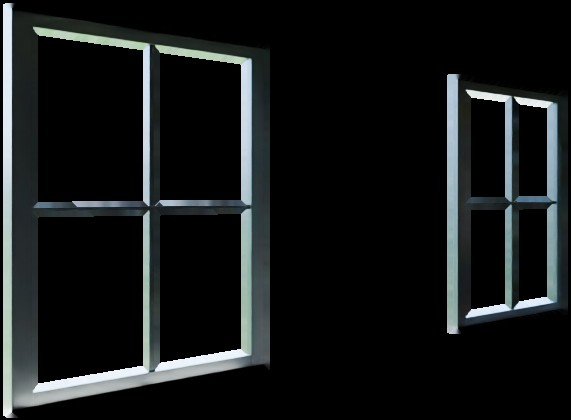
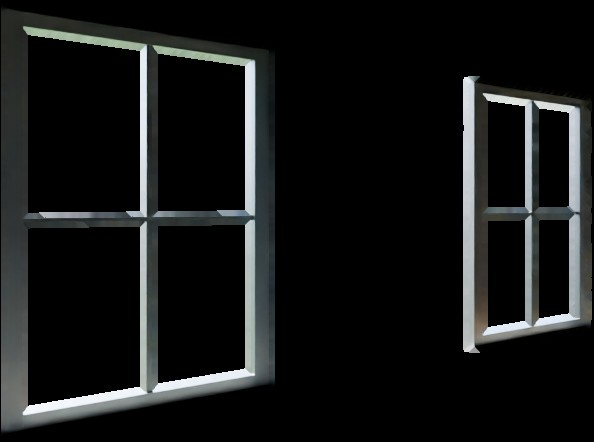
The Lookout 3500 2.0: bed4
The Lookout 3500 2.0 page: a picture redone.

- Bedroom 4 re-rendered: afternoon sun, cased windows with curtains, panelled doors with casings in three styles; crown molding as a choice, flooring, carpet, wall paint, door colour, hardware and window frames as before.

Claude-Session: https://claude.ai/code/session_01LcUu1yMTHs7qUW5E51HSvp

Changed region(s): [[0.0, 0.0, 0.4764, 1.0], [0.7741, 0.1548, 1.0, 0.8048]]

diff --git a/lookout/site.js b/lookout/site.js
@@ -1,1 +1,1 @@
-window.SJ={"name":"The Lookout 3500 2.0","slug":"the-lookout-3500-2","tag":"One-and-a-half-story plan","sub":"Four bedrooms and three and a half baths in 3,760 square feet, with the primary suite on the main level, a lookout room on the roof and a three-car garage.","stats":[["3,760","sq ft finished"],["4","bedrooms"],["3.5","baths"],["3","car garage"],["Main-level","primary suite"],["14 x 16","lookout room"]],"hero":{"day":"img/hero-day.jpg","night":""},"views":[{"id":"hero","name":"Front","kind":"ext","keys":["fas","fd","fdc","g","gdc","lk","prf","pst","rof","sid","trm","win"]},{"id":"yard","name":"Back yard","kind":"ext","keys":["fas","g","lk","pl","prf","pst","rof","sid","trm","win"]},{"id":"great","name":"Living room","kind":"int","keys":["bi","clg","cr","flr","fp","hwc","idc","ids","wal","win"]},{"id":"kitchen","name":"Kitchen","kind":"int","keys":["bsp","cab","cr","ctr","flr","hwc","isl","wal","win"]},{"id":"dining","name":"Dining room","kind":"int","keys":["cr","flr","wal","win"]},{"id":"foyer","name":"Foyer","kind":"int","keys":["cr","fd","fdc","flr","hwc","sf","sr","wal","win"]},{"id":"primary","name":"Primary bedroom","kind":"int","keys":["cr","flr","wal","win"]},{"id":"bath","name":"Primary bath","kind":"int","keys":["btl","cr","ctr","hwc","shw","vcab","wal","win"]},{"id":"office","name":"Loft over the primary closet","kind":"int","keys":["cr","flr","hwc","lof","sf","sr","wal","win"]},{"id":"loft","name":"Upstairs loft","kind":"int","keys":["cr","wal","win"]},{"id":"lookout","name":"Lookout room","kind":"int","keys":["sf","sr","wal","win"],"veil":{"when":{"lk":"0"},"keys":["sf","sr","wal","win"],"note":"Shows in this picture when the lookout room is chosen"}},{"id":"bed2","name":"Bedroom 2","kind":"int","keys":["cpt","cr","uf","wal","win"]},{"id":"bed4","name":"Bedroom 4","kind":"int","keys":["cpt","hwc","idc","uf","wal","win"]},{"id":"lounge","name":"Lower level lounge","kind":"int","keys":["b","cab","ctr","hwc","isl","wal"],"veil":{"when":{"b":"u"},"keys":["cab","ctr","hwc","isl","wal"],"note":"Shows in this picture once the lower level is finished"}},{"id":"bar","name":"Lower level bar","kind":"int","keys":["b","ctr","hwc","isl","wal"],"veil":{"when":{"b":"u"},"keys":["ctr","hwc","isl","wal"],"note":"Shows in this picture once the lower level is finished"}}],"baths":[],"bathkeys":[],"opts":[{"key":"lk","name":"Lookout room","cat":"ext","ch":[{"id":"1","name":"Lookout room on the roof (as drawn)"},{"id":"0","name":"No lookout"}],"note":"The lookout room sits on the roof, 14 x 16 ft with windows all around, reached by its own stair."},{"key":"g","name":"Garage entry","cat":"ext","ch":[{"id":"f","name":"Front entry (as drawn)"},{"id":"s","name":"Side entry, with a motor court"}],"note":"Side entry: the garage wing is re-proportioned and its doors face a motor court at the side; windows take their place on the front."},{"key":"pl","name":"Pool","cat":"ext","ch":[{"id":"n","name":"No pool (as drawn)"},{"id":"1","name":"Lap pool, 10 x 45 ft"},{"id":"2","name":"Plunge pool with a raised spa"},{"id":"3","name":"Courtyard pool with a shade pavilion"}],"note":"The pools sit behind the covered deck, on a paved terrace one step above the lawn."},{"key":"sid","name":"Siding colour","cat":"ext","ch":[{"id":"white","name":"Chantilly White","css":"#F1EFE8"},{"id":"cream","name":"Warm Cream","css":"#E6DCC6"},{"id":"greige","name":"Pebble Greige","css":"#B9B2A3"},{"id":"sage","name":"Sage","css":"#8E9A86"},{"id":"blue","name":"Harbor Blue","css":"#5E768A"},{"id":"navy","name":"Midnight Navy","css":"#28364A"},{"id":"iron","name":"Iron Gray","css":"#45484A"},{"id":"black","name":"Tricorn Black","css":"#222325"}]},{"key":"trm","name":"Trim and corner boards","cat":"ext","ch":[{"id":"white","name":"White","css":"#F4F2EC"},{"id":"cream","name":"Cream","css":"#E9E1CF"},{"id":"black","name":"Black","css":"#1E1F21"},{"id":"bronze","name":"Dark Bronze","css":"#3A322B"}]},{"key":"rof","name":"Roof shingles","cat":"ext","ch":[{"id":"char","name":"Charcoal","css":"linear-gradient(180deg,#33353A 0 50%,#45474C 50%)"},{"id":"onyx","name":"Onyx Black","css":"linear-gradient(180deg,#1D1E21 0 50%,#2A2B2F 50%)"},{"id":"wood","name":"Weathered Wood","css":"linear-gradient(180deg,#5E554B 0 50%,#7A6F62 50%)"},{"id":"slate","name":"Slate Gray","css":"linear-gradient(180deg,#4D5560 0 50%,#69717C 50%)"},{"id":"brown","name":"Barkwood","css":"linear-gradient(180deg,#41342B 0 50%,#5B4A3D 50%)"}]},{"key":"prf","name":"Porch, lookout and accent roofs","cat":"ext","ch":[{"id":"metal","name":"Black standing seam","css":"repeating-linear-gradient(90deg,#1b1c1f 0 7px,#34363a 7px 9px)"},{"id":"copper","name":"Copper standing seam","css":"repeating-linear-gradient(90deg,#9A5A34 0 7px,#c07c4c 7px 9px)"},{"id":"match","name":"Shingles to match","css":"repeating-linear-gradient(0deg,#2a2b2f 0 5px,#1d1e21 5px 10px)"}]},{"key":"fas","name":"Gutters and downspouts","cat":"ext","ch":[{"id":"white","name":"White","css":"#F2F0EA"},{"id":"black","name":"Black","css":"#1B1C1E"},{"id":"bronze","name":"Dark Bronze","css":"#3A322B"}]},{"key":"win","name":"Window frames","cat":"ext","ch":[{"id":"black","name":"Black","css":"#18191B"},{"id":"white","name":"White","css":"#F0EEE8"},{"id":"bronze","name":"Bronze","css":"#3B3129"},{"id":"clay","name":"Clay","css":"#A89F8E"}]},{"key":"fd","name":"Front door","cat":"ext","ch":[{"id":"g","name":"Double doors, glass over a panel"},{"id":"s","name":"Steel-look glass double doors"},{"id":"c","name":"Craftsman door with sidelights"},{"id":"p","name":"Panelled double doors"}],"note":"Every design comes with a transom over the door; its colour is the next choice."},{"key":"fdc","name":"Front door colour","cat":"ext","ch":[{"id":"wood","name":"Stained Walnut","css":"linear-gradient(135deg,#6A4226,#4A2C18)"},{"id":"black","name":"Black","css":"#161719"},{"id":"navy","name":"Navy","css":"#22324A"},{"id":"red","name":"Barn Red","css":"#6E1F1B"},{"id":"teal","name":"Deep Teal","css":"#1F4A4C"},{"id":"sage","name":"Sage","css":"#7C8A74"},{"id":"white","name":"White","css":"#F0EEE8"}]},{"key":"gdc","name":"Garage door colour","cat":"ext","ch":[{"id":"white","name":"White","css":"#EFEDE7"},{"id":"black","name":"Black","css":"#18191B"},{"id":"iron","name":"Iron Gray","css":"#4A4C4E"},{"id":"bronze","name":"Bronze","css":"#3B3129"},{"id":"wood","name":"Walnut","css":"linear-gradient(135deg,#6A4226,#4A2C18)"}]},{"key":"pst","name":"Porch posts and beams","cat":"ext","ch":[{"id":"cedar","name":"Stained cedar","css":"linear-gradient(135deg,#96663A,#774E28)"},{"id":"white","name":"White","css":"#EFEDE7"},{"id":"black","name":"Black","css":"#1F2022"}]},{"key":"b","name":"Lower level","cat":"int","ch":[{"id":"u","name":"Unfinished (as drawn)"},{"id":"f","name":"Finished"}]},{"key":"lof","name":"Loft over the primary closet","cat":"int","ch":[{"id":"o","name":"Home office"},{"id":"l","name":"Library"},{"id":"r","name":"Retreat"}],"note":"The room over the primary closet, up its own spiral stair: 13 x 11 ft with windows on all four sides."},{"key":"clg","name":"Living room ceiling","cat":"int","ch":[{"id":"c","name":"Coffered, painted"},{"id":"o","name":"Coffered, oak beams"},{"id":"b","name":"Timber beams"},{"id":"t","name":"Tray ceiling"}],"note":"Coffers: nine panels framed by beams, centred on the fireplace, with a ring chandelier in the middle."},{"key":"cr","name":"Crown molding","cat":"int","ch":[{"id":"n","name":"None"},{"id":"c","name":"Classic crown, 5 1/4 in."},{"id":"f","name":"Craftsman, flat with a cap"}],"note":"Runs on every wall that meets a flat ceiling: the main level, upstairs, the lookout room, the loft over the closet and the finished lower level."},{"key":"fp","name":"Fireplace","cat":"int","ch":[{"id":"stone","name":"Stacked stone (as drawn)","css":"repeating-linear-gradient(0deg,#8f887c 0 4px,#6f695f 4px 5px)"},{"id":"white","name":"White stacked stone","css":"repeating-linear-gradient(0deg,#E9E6DF 0 4px,#c4c0b7 4px 5px)"},{"id":"brick","name":"Red brick","css":"repeating-linear-gradient(0deg,#8E4A36 0 5px,#B9B2A6 5px 6px)"},{"id":"wbrick","name":"White painted brick","css":"repeating-linear-gradient(0deg,#EDEAE3 0 5px,#cfcbc2 5px 6px)"},{"id":"slate","name":"Charcoal slate tile","css":"repeating-linear-gradient(90deg,#3B3D40 0 12px,#1F2022 12px 13px)"}]},{"key":"bi","name":"Fireplace built-ins","cat":"int","ch":[{"id":"c","name":"Cabinets with oak tops (as drawn)"},{"id":"s","name":"Cabinets and shelves to the ceiling"},{"id":"n","name":"None"}],"note":"The built-ins stand on both sides of the fireplace."},{"key":"ids","name":"Interior door style","cat":"int","ch":[{"id":"s","name":"Two-panel Shaker"},{"id":"f","name":"Five-panel"},{"id":"c","name":"Craftsman, three-panel"}],"note":"8 ft doors on the main level, 6 ft 8 in. upstairs; every opening is cased, with a cap over the head."},{"key":"idc","name":"Interior doors","cat":"int","ch":[{"id":"white","name":"White","css":"#F2F0EA"},{"id":"black","name":"Black","css":"#1E1F21"},{"id":"grey","name":"Gray","css":"#8F9190"},{"id":"oak","name":"Natural oak","css":"linear-gradient(135deg,#B9905E,#A67C4C)"}]},{"key":"sf","name":"Stair treads and handrails","cat":"int","ch":[{"id":"o","name":"Natural oak (as drawn)","css":"linear-gradient(135deg,#B9905E,#A67C4C)"},{"id":"d","name":"Walnut","css":"linear-gradient(135deg,#6A4A32,#573B27)"},{"id":"k","name":"Ebony","css":"linear-gradient(135deg,#30261F,#211A15)"},{"id":"w","name":"Whitewashed oak","css":"linear-gradient(135deg,#D9CDB8,#C9BCA4)"}]},{"key":"sr","name":"Stair balusters","cat":"int","ch":[{"id":"k","name":"Black iron","css":"#141414"},{"id":"w","name":"White","css":"#EFEDE7"},{"id":"b","name":"Satin brass","css":"#B08A4A"}]},{"key":"flr","name":"Hardwood flooring","cat":"int","ch":[{"id":"oak","name":"Natural Oak Plank","css":"repeating-linear-gradient(90deg,#B08F68 0 9px,#9C7B55 9px 18px)"},{"id":"honey","name":"Honey Oak","css":"repeating-linear-gradient(90deg,#B8834A 0 9px,#A2703C 9px 18px)"},{"id":"grey","name":"Driftwood Gray","css":"repeating-linear-gradient(90deg,#9A9288 0 9px,#857D73 9px 18px)"},{"id":"walnut","name":"Walnut","css":"repeating-linear-gradient(90deg,#6A4A32 0 9px,#573B27 9px 18px)"},{"id":"white","name":"Whitewashed","css":"repeating-linear-gradient(90deg,#CFC3B0 0 9px,#BFB29E 9px 18px)"}]},{"key":"uf","name":"Bedroom flooring","cat":"int","ch":[{"id":"c","name":"Carpet (as shown)","css":"repeating-linear-gradient(45deg,#C9C0AE 0 3px,#BDB4A2 3px 6px)"},{"id":"oak","name":"Natural Oak Plank","css":"repeating-linear-gradient(90deg,#B08F68 0 9px,#9C7B55 9px 18px)"},{"id":"honey","name":"Honey Oak","css":"repeating-linear-gradient(90deg,#B8834A 0 9px,#A2703C 9px 18px)"},{"id":"grey","name":"Driftwood Gray","css":"repeating-linear-gradient(90deg,#9A9288 0 9px,#857D73 9px 18px)"},{"id":"walnut","name":"Walnut","css":"repeating-linear-gradient(90deg,#6A4A32 0 9px,#573B27 9px 18px)"},{"id":"white","name":"Whitewashed","css":"repeating-linear-gradient(90deg,#CFC3B0 0 9px,#BFB29E 9px 18px)"}]},{"key":"cpt","name":"Carpet","cat":"int","ch":[{"id":"oat","name":"Oatmeal","css":"#C9C0AE"},{"id":"grey","name":"Silver","css":"#B5B3AE"},{"id":"taupe","name":"Taupe","css":"#A39685"}],"only":{"uf":"c"}},{"key":"wal","name":"Wall paint","cat":"int","ch":[{"id":"alab","name":"Alabaster","css":"#EDEAE0"},{"id":"grey","name":"Agreeable Gray","css":"#D1CBC1"},{"id":"greige","name":"Accessible Beige","css":"#D1C7B8"},{"id":"blue","name":"Sea Salt","css":"#CDD2CA"},{"id":"white","name":"Pure White","css":"#F2F0EB"}]},{"key":"cab","name":"Kitchen cabinets","cat":"int","ch":[{"id":"white","name":"White Shaker","css":"#EFEDE7"},{"id":"grey","name":"Dove Gray","css":"#A9ABA8"},{"id":"sage","name":"Sage","css":"#8A967F"},{"id":"navy","name":"Navy","css":"#27364B"},{"id":"black","name":"Black","css":"#1F2022"},{"id":"oak","name":"Natural Oak","css":"linear-gradient(135deg,#B9905E,#A67C4C)"}]},{"key":"isl","name":"Island and range hood","cat":"int","ch":[{"id":"navy","name":"Navy","css":"#27364B"},{"id":"white","name":"White","css":"#EFEDE7"},{"id":"oak","name":"Natural Oak","css":"linear-gradient(135deg,#B9905E,#A67C4C)"},{"id":"black","name":"Black","css":"#1F2022"},{"id":"sage","name":"Sage","css":"#8A967F"}]},{"key":"ctr","name":"Countertops","cat":"int","ch":[{"id":"white","name":"White Quartz","css":"#EEEBE4"},{"id":"marble","name":"Marble-look Quartz","css":"linear-gradient(120deg,#ECE9E3 0 40%,#b9b6ae 44%,#ECE9E3 48% 70%,#c9c6be 74%,#ECE9E3 78%)"},{"id":"black","name":"Black Granite","css":"linear-gradient(120deg,#17181A 0 55%,#4a4a48 60%,#17181A 65%)"},{"id":"grey","name":"Concrete Gray","css":"#9A9894"}]},{"key":"bsp","name":"Backsplash","cat":"int","ch":[{"id":"slab","name":"Marble slab","css":"linear-gradient(120deg,#ECE9E3 0 40%,#b9b6ae 44%,#ECE9E3 48% 70%,#c9c6be 74%,#ECE9E3 78%)"},{"id":"subway","name":"White Subway","css":"repeating-linear-gradient(0deg,#F0EEE8 0 8px,#cfccc4 8px 9px)"},{"id":"green","name":"Sage Zellige","css":"repeating-linear-gradient(0deg,#8FA08A 0 8px,#6f806a 8px 9px)"},{"id":"grey","name":"Gray Subway","css":"repeating-linear-gradient(0deg,#B4B6B4 0 8px,#8f918f 8px 9px)"},{"id":"black","name":"Black Subway","css":"repeating-linear-gradient(0deg,#232426 0 8px,#6A6A68 8px 9px)"}]},{"key":"vcab","name":"Bathroom vanities","cat":"int","ch":[{"id":"oak","name":"Natural oak","css":"linear-gradient(135deg,#B9905E,#A67C4C)"},{"id":"white","name":"White","css":"#EFEDE7"},{"id":"navy","name":"Navy","css":"#27364B"},{"id":"sage","name":"Sage","css":"#8A967F"},{"id":"black","name":"Black","css":"#1F2022"},{"id":"walnut","name":"Walnut","css":"linear-gradient(135deg,#6A4A32,#573B27)"}]},{"key":"shw","name":"Shower walls","cat":"int","ch":[{"id":"slab","name":"Marble slab","css":"linear-gradient(120deg,#ECE9E3 0 40%,#b9b6ae 44%,#ECE9E3 48% 70%,#c9c6be 74%,#ECE9E3 78%)"},{"id":"subway","name":"White subway tile","css":"repeating-linear-gradient(0deg,#F0EEE8 0 8px,#cfccc4 8px 9px)"},{"id":"zel","name":"Sage zellige","css":"repeating-linear-gradient(0deg,#8FA08A 0 8px,#6f806a 8px 9px)"},{"id":"slate","name":"Charcoal slate","css":"repeating-linear-gradient(90deg,#3B3D40 0 14px,#1F2022 14px 15px)"},{"id":"trav","name":"Warm limestone","css":"repeating-linear-gradient(90deg,#D9CDB8 0 14px,#B8AC96 14px 15px)"}],"note":"The primary bath's wet room, and the wall behind the tub in each upstairs bath."},{"key":"btl","name":"Bath floor tile","cat":"int","ch":[{"id":"w","name":"White porcelain","css":"repeating-linear-gradient(90deg,#EDEBE6 0 12px,#B9B6AE 12px 13px)"},{"id":"g","name":"Warm gray","css":"repeating-linear-gradient(90deg,#B9B2A6 0 12px,#8C867B 12px 13px)"},{"id":"m","name":"Marble look","css":"linear-gradient(120deg,#ECEAE6 0 40%,#c4c1bb 46%,#ECEAE6 52%)"},{"id":"c","name":"Charcoal slate","css":"repeating-linear-gradient(90deg,#4A4C4F 0 12px,#2C2D2F 12px 13px)"}]},{"key":"hwc","name":"Hardware and faucets","cat":"int","ch":[{"id":"brass","name":"Satin Brass","css":"#B08A4A"},{"id":"black","name":"Matte Black","css":"#101011"},{"id":"nickel","name":"Satin Nickel","css":"#9A9A98"}]}],"defaults":{"sid":"white","trm":"white","fas":"white","win":"black","fdc":"wood","gdc":"white","rof":"char","prf":"metal","lk":"1","g":"f","b":"u","pl":"n","fd":"g","pst":"cedar","clg":"c","cr":"n","fp":"stone","bi":"c","sf":"o","sr":"k","idc":"white","ids":"s","lof":"o","hwc":"brass","wal":"alab","cab":"white","isl":"navy","ctr":"marble","bsp":"slab","vcab":"oak","shw":"slab","btl":"w","flr":"oak","cpt":"oat","uf":"c"},"gallery":[],"looks":[{"cat":"ext","name":"Modern farmhouse (as drawn)","set":{}},{"cat":"ext","name":"Midnight and copper","set":{"sid":"navy","prf":"copper","gdc":"wood","rof":"onyx"}},{"cat":"ext","name":"Sage cottage","set":{"sid":"sage","trm":"cream","fas":"bronze","win":"white","rof":"wood","fdc":"navy","fd":"c"}},{"cat":"ext","name":"Charcoal modern","set":{"sid":"iron","trm":"black","fas":"black","rof":"onyx","gdc":"black","fdc":"black","fd":"s"}},{"cat":"ext","name":"Coastal blue","set":{"sid":"blue","win":"white","rof":"slate","fdc":"navy"}},{"cat":"ext","name":"Warm greige","set":{"sid":"greige","trm":"cream","fas":"bronze","win":"bronze","rof":"brown","gdc":"bronze","fd":"p"}},{"cat":"ext","name":"Black barn","set":{"sid":"black","trm":"black","fas":"black","gdc":"wood","prf":"copper","fd":"p"}},{"cat":"int","name":"Light and warm (as shown)","set":{}},{"cat":"int","name":"Warm oak","set":{"isl":"oak","ctr":"marble","flr":"honey","wal":"greige","clg":"o","cr":"f","ids":"c"}},{"cat":"int","name":"Deep and moody","set":{"cab":"navy","bsp":"grey","flr":"walnut","wal":"grey","idc":"black","clg":"b","cr":"c","vcab":"navy","shw":"slate","lof":"l"}},{"cat":"int","name":"Scandinavian","set":{"isl":"white","flr":"white","wal":"white","hwc":"black","clg":"t","ids":"f","vcab":"white","shw":"subway"}},{"cat":"int","name":"Sage kitchen","set":{"cab":"sage","isl":"oak","bsp":"green","vcab":"sage","shw":"zel","lof":"r"}},{"cat":"int","name":"Black and white","set":{"cab":"black","isl":"white","ctr":"marble","flr":"grey","wal":"white","hwc":"nickel","idc":"black","ids":"c","cr":"c","vcab":"black","shw":"subway"}},{"cat":"int","name":"Everything added","set":{"cr":"c","clg":"o","bi":"s","ids":"c","lof":"l","b":"f"}}],"plan_lead":"Each level seen from straight above, with everything over it taken away. Furniture is illustrative.","plans":[{"id":"main_f","name":"Main level","note":"2,144 sq ft: living, dining and kitchen in the core, the primary suite in its own wing, a three-car garage","svg":"<img src=\"img/plan-main_f.jpg\" alt=\"Main level, seen from above with the levels over it taken away\" style=\"width:100%;height:auto;display:block;border-radius:10px\">"},{"id":"main_s","name":"Main level, side-entry garage","note":"The same rooms; the garage wing is re-proportioned and entered from a motor court at the side","svg":"<img src=\"img/plan-main_s.jpg\" alt=\"Main level, side-entry garage, seen from above with the levels over it taken away\" style=\"width:100%;height:auto;display:block;border-radius:10px\">"},{"id":"upper","name":"Upstairs","note":"1,224 sq ft: three bedrooms, two baths, the loft and a laundry; the office loft sits over the primary closet","svg":"<img src=\"img/plan-upper.jpg\" alt=\"Upstairs, seen from above with the levels over it taken away\" style=\"width:100%;height:auto;display:block;border-radius:10px\">"},{"id":"look","name":"Lookout","note":"224 sq ft: the lookout room on the roof, windows on all four sides","svg":"<img src=\"img/plan-look.jpg\" alt=\"Lookout, seen from above with the levels over it taken away\" style=\"width:100%;height:auto;display:block;border-radius:10px\">"},{"id":"bsmt_u","name":"Lower level","note":"Unfinished, as drawn: a safe room, mechanical space and rough-ins for a bath and a wet bar","svg":"<img src=\"img/plan-bsmt_u.jpg\" alt=\"Lower level, seen from above with the levels over it taken away\" style=\"width:100%;height:auto;display:block;border-radius:10px\">"},{"id":"bsmt_f","name":"Lower level, finished","note":"Lounge, bar, gym, bath and sauna, with the safe room, storage and mechanical space","svg":"<img src=\"img/plan-bsmt_f.jpg\" alt=\"Lower level, finished, seen from above with the levels over it taken away\" style=\"width:100%;height:auto;display:block;border-radius:10px\">"}],"lot":null,"specs":[{"h":"The home","items":["3,760 sq ft finished: 2,144 on the main level, 1,224 upstairs, a 168 sq ft office loft and the 224 sq ft lookout room","Four bedrooms and three and a half baths; the primary suite is on the main level in its own wing","The primary suite: a 20 x 20 bedroom with a door to the covered deck, a spa bath and a walk-in closet, about 800 sq ft in all","Three-car garage in a wing of its own, front entry or side entry","Core 34 x 36 ft, two stories; the garage wing 32 x 24 ft and the primary wing 20 x 46 ft are one story"]},{"h":"Rooms","items":["Main level: foyer, dining room, living room with a fireplace and a 12 ft slider to the covered deck, kitchen with a prep kitchen and pantry, mudroom, powder room, laundry","Upstairs: three bedrooms, two baths, a loft, a second laundry","An office loft over the primary closet, reached by its own spiral stair","The lookout room: 14 x 16 ft on the roof, windows on all four sides"]},{"h":"Heights and roof","items":["10 ft ceilings on the main level","Gable roofs with standing-seam accents over the porch, the lookout and the garage doors","Covered 16 x 14 ft deck off the living room; covered front porch on timber posts"]},{"h":"Inside finish","items":["Living room ceiling: nine coffers centred on the fireplace with a ring chandelier, painted or in oak; timber beams or a tray ceiling instead","Doors: 8 ft on the main level and 6 ft 8 in. upstairs, in three panel styles, every opening cased with a cap over the head","Crown molding as a choice on every level, classic or craftsman","Front door in four designs under a transom: glass over a panel, steel-look glass, craftsman with sidelights, or panelled","Baths: vanity cabinets and shower walls chosen apart from the kitchen","The loft over the primary closet as a home office, a library or a retreat"]},{"h":"Outside","items":["Board-and-batten siding with trim boards at corners and openings","Black-framed windows with grids","A full basement under the core"]}],"foot":["The pictures and the design studio on this page are computer renderings of a 3D model of the plan. Furniture, planting and the land around the house are illustrative; the plan is not drawn on a particular lot.","Finishes offered in the design studio are examples for planning, not a builder's price list. A builder's plan set and contract govern."],"tour":null,"model3d":{"src":"3d/","poster":"img/hero-day.jpg"}};
+window.SJ={"name":"The Lookout 3500 2.0","slug":"the-lookout-3500-2","tag":"One-and-a-half-story plan","sub":"Four bedrooms and three and a half baths in 3,760 square feet, with the primary suite on the main level, a lookout room on the roof and a three-car garage.","stats":[["3,760","sq ft finished"],["4","bedrooms"],["3.5","baths"],["3","car garage"],["Main-level","primary suite"],["14 x 16","lookout room"]],"hero":{"day":"img/hero-day.jpg","night":""},"views":[{"id":"hero","name":"Front","kind":"ext","keys":["fas","fd","fdc","g","gdc","lk","prf","pst","rof","sid","trm","win"]},{"id":"yard","name":"Back yard","kind":"ext","keys":["fas","g","lk","pl","prf","pst","rof","sid","trm","win"]},{"id":"great","name":"Living room","kind":"int","keys":["bi","clg","cr","flr","fp","hwc","idc","ids","wal","win"]},{"id":"kitchen","name":"Kitchen","kind":"int","keys":["bsp","cab","cr","ctr","flr","hwc","isl","wal","win"]},{"id":"dining","name":"Dining room","kind":"int","keys":["cr","flr","wal","win"]},{"id":"foyer","name":"Foyer","kind":"int","keys":["cr","fd","fdc","flr","hwc","sf","sr","wal","win"]},{"id":"primary","name":"Primary bedroom","kind":"int","keys":["cr","flr","wal","win"]},{"id":"bath","name":"Primary bath","kind":"int","keys":["btl","cr","ctr","hwc","shw","vcab","wal","win"]},{"id":"office","name":"Loft over the primary closet","kind":"int","keys":["cr","flr","hwc","lof","sf","sr","wal","win"]},{"id":"loft","name":"Upstairs loft","kind":"int","keys":["cr","wal","win"]},{"id":"lookout","name":"Lookout room","kind":"int","keys":["sf","sr","wal","win"],"veil":{"when":{"lk":"0"},"keys":["sf","sr","wal","win"],"note":"Shows in this picture when the lookout room is chosen"}},{"id":"bed2","name":"Bedroom 2","kind":"int","keys":["cpt","cr","uf","wal","win"]},{"id":"bed4","name":"Bedroom 4","kind":"int","keys":["cpt","cr","hwc","idc","ids","uf","wal","win"]},{"id":"lounge","name":"Lower level lounge","kind":"int","keys":["b","cab","ctr","hwc","isl","wal"],"veil":{"when":{"b":"u"},"keys":["cab","ctr","hwc","isl","wal"],"note":"Shows in this picture once the lower level is finished"}},{"id":"bar","name":"Lower level bar","kind":"int","keys":["b","ctr","hwc","isl","wal"],"veil":{"when":{"b":"u"},"keys":["ctr","hwc","isl","wal"],"note":"Shows in this picture once the lower level is finished"}}],"baths":[],"bathkeys":[],"opts":[{"key":"lk","name":"Lookout room","cat":"ext","ch":[{"id":"1","name":"Lookout room on the roof (as drawn)"},{"id":"0","name":"No lookout"}],"note":"The lookout room sits on the roof, 14 x 16 ft with windows all around, reached by its own stair."},{"key":"g","name":"Garage entry","cat":"ext","ch":[{"id":"f","name":"Front entry (as drawn)"},{"id":"s","name":"Side entry, with a motor court"}],"note":"Side entry: the garage wing is re-proportioned and its doors face a motor court at the side; windows take their place on the front."},{"key":"pl","name":"Pool","cat":"ext","ch":[{"id":"n","name":"No pool (as drawn)"},{"id":"1","name":"Lap pool, 10 x 45 ft"},{"id":"2","name":"Plunge pool with a raised spa"},{"id":"3","name":"Courtyard pool with a shade pavilion"}],"note":"The pools sit behind the covered deck, on a paved terrace one step above the lawn."},{"key":"sid","name":"Siding colour","cat":"ext","ch":[{"id":"white","name":"Chantilly White","css":"#F1EFE8"},{"id":"cream","name":"Warm Cream","css":"#E6DCC6"},{"id":"greige","name":"Pebble Greige","css":"#B9B2A3"},{"id":"sage","name":"Sage","css":"#8E9A86"},{"id":"blue","name":"Harbor Blue","css":"#5E768A"},{"id":"navy","name":"Midnight Navy","css":"#28364A"},{"id":"iron","name":"Iron Gray","css":"#45484A"},{"id":"black","name":"Tricorn Black","css":"#222325"}]},{"key":"trm","name":"Trim and corner boards","cat":"ext","ch":[{"id":"white","name":"White","css":"#F4F2EC"},{"id":"cream","name":"Cream","css":"#E9E1CF"},{"id":"black","name":"Black","css":"#1E1F21"},{"id":"bronze","name":"Dark Bronze","css":"#3A322B"}]},{"key":"rof","name":"Roof shingles","cat":"ext","ch":[{"id":"char","name":"Charcoal","css":"linear-gradient(180deg,#33353A 0 50%,#45474C 50%)"},{"id":"onyx","name":"Onyx Black","css":"linear-gradient(180deg,#1D1E21 0 50%,#2A2B2F 50%)"},{"id":"wood","name":"Weathered Wood","css":"linear-gradient(180deg,#5E554B 0 50%,#7A6F62 50%)"},{"id":"slate","name":"Slate Gray","css":"linear-gradient(180deg,#4D5560 0 50%,#69717C 50%)"},{"id":"brown","name":"Barkwood","css":"linear-gradient(180deg,#41342B 0 50%,#5B4A3D 50%)"}]},{"key":"prf","name":"Porch, lookout and accent roofs","cat":"ext","ch":[{"id":"metal","name":"Black standing seam","css":"repeating-linear-gradient(90deg,#1b1c1f 0 7px,#34363a 7px 9px)"},{"id":"copper","name":"Copper standing seam","css":"repeating-linear-gradient(90deg,#9A5A34 0 7px,#c07c4c 7px 9px)"},{"id":"match","name":"Shingles to match","css":"repeating-linear-gradient(0deg,#2a2b2f 0 5px,#1d1e21 5px 10px)"}]},{"key":"fas","name":"Gutters and downspouts","cat":"ext","ch":[{"id":"white","name":"White","css":"#F2F0EA"},{"id":"black","name":"Black","css":"#1B1C1E"},{"id":"bronze","name":"Dark Bronze","css":"#3A322B"}]},{"key":"win","name":"Window frames","cat":"ext","ch":[{"id":"black","name":"Black","css":"#18191B"},{"id":"white","name":"White","css":"#F0EEE8"},{"id":"bronze","name":"Bronze","css":"#3B3129"},{"id":"clay","name":"Clay","css":"#A89F8E"}]},{"key":"fd","name":"Front door","cat":"ext","ch":[{"id":"g","name":"Double doors, glass over a panel"},{"id":"s","name":"Steel-look glass double doors"},{"id":"c","name":"Craftsman door with sidelights"},{"id":"p","name":"Panelled double doors"}],"note":"Every design comes with a transom over the door; its colour is the next choice."},{"key":"fdc","name":"Front door colour","cat":"ext","ch":[{"id":"wood","name":"Stained Walnut","css":"linear-gradient(135deg,#6A4226,#4A2C18)"},{"id":"black","name":"Black","css":"#161719"},{"id":"navy","name":"Navy","css":"#22324A"},{"id":"red","name":"Barn Red","css":"#6E1F1B"},{"id":"teal","name":"Deep Teal","css":"#1F4A4C"},{"id":"sage","name":"Sage","css":"#7C8A74"},{"id":"white","name":"White","css":"#F0EEE8"}]},{"key":"gdc","name":"Garage door colour","cat":"ext","ch":[{"id":"white","name":"White","css":"#EFEDE7"},{"id":"black","name":"Black","css":"#18191B"},{"id":"iron","name":"Iron Gray","css":"#4A4C4E"},{"id":"bronze","name":"Bronze","css":"#3B3129"},{"id":"wood","name":"Walnut","css":"linear-gradient(135deg,#6A4226,#4A2C18)"}]},{"key":"pst","name":"Porch posts and beams","cat":"ext","ch":[{"id":"cedar","name":"Stained cedar","css":"linear-gradient(135deg,#96663A,#774E28)"},{"id":"white","name":"White","css":"#EFEDE7"},{"id":"black","name":"Black","css":"#1F2022"}]},{"key":"b","name":"Lower level","cat":"int","ch":[{"id":"u","name":"Unfinished (as drawn)"},{"id":"f","name":"Finished"}]},{"key":"lof","name":"Loft over the primary closet","cat":"int","ch":[{"id":"o","name":"Home office"},{"id":"l","name":"Library"},{"id":"r","name":"Retreat"}],"note":"The room over the primary closet, up its own spiral stair: 13 x 11 ft with windows on all four sides."},{"key":"clg","name":"Living room ceiling","cat":"int","ch":[{"id":"c","name":"Coffered, painted"},{"id":"o","name":"Coffered, oak beams"},{"id":"b","name":"Timber beams"},{"id":"t","name":"Tray ceiling"}],"note":"Coffers: nine panels framed by beams, centred on the fireplace, with a ring chandelier in the middle."},{"key":"cr","name":"Crown molding","cat":"int","ch":[{"id":"n","name":"None"},{"id":"c","name":"Classic crown, 5 1/4 in."},{"id":"f","name":"Craftsman, flat with a cap"}],"note":"Runs on every wall that meets a flat ceiling: the main level, upstairs, the lookout room, the loft over the closet and the finished lower level."},{"key":"fp","name":"Fireplace","cat":"int","ch":[{"id":"stone","name":"Stacked stone (as drawn)","css":"repeating-linear-gradient(0deg,#8f887c 0 4px,#6f695f 4px 5px)"},{"id":"white","name":"White stacked stone","css":"repeating-linear-gradient(0deg,#E9E6DF 0 4px,#c4c0b7 4px 5px)"},{"id":"brick","name":"Red brick","css":"repeating-linear-gradient(0deg,#8E4A36 0 5px,#B9B2A6 5px 6px)"},{"id":"wbrick","name":"White painted brick","css":"repeating-linear-gradient(0deg,#EDEAE3 0 5px,#cfcbc2 5px 6px)"},{"id":"slate","name":"Charcoal slate tile","css":"repeating-linear-gradient(90deg,#3B3D40 0 12px,#1F2022 12px 13px)"}]},{"key":"bi","name":"Fireplace built-ins","cat":"int","ch":[{"id":"c","name":"Cabinets with oak tops (as drawn)"},{"id":"s","name":"Cabinets and shelves to the ceiling"},{"id":"n","name":"None"}],"note":"The built-ins stand on both sides of the fireplace."},{"key":"ids","name":"Interior door style","cat":"int","ch":[{"id":"s","name":"Two-panel Shaker"},{"id":"f","name":"Five-panel"},{"id":"c","name":"Craftsman, three-panel"}],"note":"8 ft doors on the main level, 6 ft 8 in. upstairs; every opening is cased, with a cap over the head."},{"key":"idc","name":"Interior doors","cat":"int","ch":[{"id":"white","name":"White","css":"#F2F0EA"},{"id":"black","name":"Black","css":"#1E1F21"},{"id":"grey","name":"Gray","css":"#8F9190"},{"id":"oak","name":"Natural oak","css":"linear-gradient(135deg,#B9905E,#A67C4C)"}]},{"key":"sf","name":"Stair treads and handrails","cat":"int","ch":[{"id":"o","name":"Natural oak (as drawn)","css":"linear-gradient(135deg,#B9905E,#A67C4C)"},{"id":"d","name":"Walnut","css":"linear-gradient(135deg,#6A4A32,#573B27)"},{"id":"k","name":"Ebony","css":"linear-gradient(135deg,#30261F,#211A15)"},{"id":"w","name":"Whitewashed oak","css":"linear-gradient(135deg,#D9CDB8,#C9BCA4)"}]},{"key":"sr","name":"Stair balusters","cat":"int","ch":[{"id":"k","name":"Black iron","css":"#141414"},{"id":"w","name":"White","css":"#EFEDE7"},{"id":"b","name":"Satin brass","css":"#B08A4A"}]},{"key":"flr","name":"Hardwood flooring","cat":"int","ch":[{"id":"oak","name":"Natural Oak Plank","css":"repeating-linear-gradient(90deg,#B08F68 0 9px,#9C7B55 9px 18px)"},{"id":"honey","name":"Honey Oak","css":"repeating-linear-gradient(90deg,#B8834A 0 9px,#A2703C 9px 18px)"},{"id":"grey","name":"Driftwood Gray","css":"repeating-linear-gradient(90deg,#9A9288 0 9px,#857D73 9px 18px)"},{"id":"walnut","name":"Walnut","css":"repeating-linear-gradient(90deg,#6A4A32 0 9px,#573B27 9px 18px)"},{"id":"white","name":"Whitewashed","css":"repeating-linear-gradient(90deg,#CFC3B0 0 9px,#BFB29E 9px 18px)"}]},{"key":"uf","name":"Bedroom flooring","cat":"int","ch":[{"id":"c","name":"Carpet (as shown)","css":"repeating-linear-gradient(45deg,#C9C0AE 0 3px,#BDB4A2 3px 6px)"},{"id":"oak","name":"Natural Oak Plank","css":"repeating-linear-gradient(90deg,#B08F68 0 9px,#9C7B55 9px 18px)"},{"id":"honey","name":"Honey Oak","css":"repeating-linear-gradient(90deg,#B8834A 0 9px,#A2703C 9px 18px)"},{"id":"grey","name":"Driftwood Gray","css":"repeating-linear-gradient(90deg,#9A9288 0 9px,#857D73 9px 18px)"},{"id":"walnut","name":"Walnut","css":"repeating-linear-gradient(90deg,#6A4A32 0 9px,#573B27 9px 18px)"},{"id":"white","name":"Whitewashed","css":"repeating-linear-gradient(90deg,#CFC3B0 0 9px,#BFB29E 9px 18px)"}]},{"key":"cpt","name":"Carpet","cat":"int","ch":[{"id":"oat","name":"Oatmeal","css":"#C9C0AE"},{"id":"grey","name":"Silver","css":"#B5B3AE"},{"id":"taupe","name":"Taupe","css":"#A39685"}],"only":{"uf":"c"}},{"key":"wal","name":"Wall paint","cat":"int","ch":[{"id":"alab","name":"Alabaster","css":"#EDEAE0"},{"id":"grey","name":"Agreeable Gray","css":"#D1CBC1"},{"id":"greige","name":"Accessible Beige","css":"#D1C7B8"},{"id":"blue","name":"Sea Salt","css":"#CDD2CA"},{"id":"white","name":"Pure White","css":"#F2F0EB"}]},{"key":"cab","name":"Kitchen cabinets","cat":"int","ch":[{"id":"white","name":"White Shaker","css":"#EFEDE7"},{"id":"grey","name":"Dove Gray","css":"#A9ABA8"},{"id":"sage","name":"Sage","css":"#8A967F"},{"id":"navy","name":"Navy","css":"#27364B"},{"id":"black","name":"Black","css":"#1F2022"},{"id":"oak","name":"Natural Oak","css":"linear-gradient(135deg,#B9905E,#A67C4C)"}]},{"key":"isl","name":"Island and range hood","cat":"int","ch":[{"id":"navy","name":"Navy","css":"#27364B"},{"id":"white","name":"White","css":"#EFEDE7"},{"id":"oak","name":"Natural Oak","css":"linear-gradient(135deg,#B9905E,#A67C4C)"},{"id":"black","name":"Black","css":"#1F2022"},{"id":"sage","name":"Sage","css":"#8A967F"}]},{"key":"ctr","name":"Countertops","cat":"int","ch":[{"id":"white","name":"White Quartz","css":"#EEEBE4"},{"id":"marble","name":"Marble-look Quartz","css":"linear-gradient(120deg,#ECE9E3 0 40%,#b9b6ae 44%,#ECE9E3 48% 70%,#c9c6be 74%,#ECE9E3 78%)"},{"id":"black","name":"Black Granite","css":"linear-gradient(120deg,#17181A 0 55%,#4a4a48 60%,#17181A 65%)"},{"id":"grey","name":"Concrete Gray","css":"#9A9894"}]},{"key":"bsp","name":"Backsplash","cat":"int","ch":[{"id":"slab","name":"Marble slab","css":"linear-gradient(120deg,#ECE9E3 0 40%,#b9b6ae 44%,#ECE9E3 48% 70%,#c9c6be 74%,#ECE9E3 78%)"},{"id":"subway","name":"White Subway","css":"repeating-linear-gradient(0deg,#F0EEE8 0 8px,#cfccc4 8px 9px)"},{"id":"green","name":"Sage Zellige","css":"repeating-linear-gradient(0deg,#8FA08A 0 8px,#6f806a 8px 9px)"},{"id":"grey","name":"Gray Subway","css":"repeating-linear-gradient(0deg,#B4B6B4 0 8px,#8f918f 8px 9px)"},{"id":"black","name":"Black Subway","css":"repeating-linear-gradient(0deg,#232426 0 8px,#6A6A68 8px 9px)"}]},{"key":"vcab","name":"Bathroom vanities","cat":"int","ch":[{"id":"oak","name":"Natural oak","css":"linear-gradient(135deg,#B9905E,#A67C4C)"},{"id":"white","name":"White","css":"#EFEDE7"},{"id":"navy","name":"Navy","css":"#27364B"},{"id":"sage","name":"Sage","css":"#8A967F"},{"id":"black","name":"Black","css":"#1F2022"},{"id":"walnut","name":"Walnut","css":"linear-gradient(135deg,#6A4A32,#573B27)"}]},{"key":"shw","name":"Shower walls","cat":"int","ch":[{"id":"slab","name":"Marble slab","css":"linear-gradient(120deg,#ECE9E3 0 40%,#b9b6ae 44%,#ECE9E3 48% 70%,#c9c6be 74%,#ECE9E3 78%)"},{"id":"subway","name":"White subway tile","css":"repeating-linear-gradient(0deg,#F0EEE8 0 8px,#cfccc4 8px 9px)"},{"id":"zel","name":"Sage zellige","css":"repeating-linear-gradient(0deg,#8FA08A 0 8px,#6f806a 8px 9px)"},{"id":"slate","name":"Charcoal slate","css":"repeating-linear-gradient(90deg,#3B3D40 0 14px,#1F2022 14px 15px)"},{"id":"trav","name":"Warm limestone","css":"repeating-linear-gradient(90deg,#D9CDB8 0 14px,#B8AC96 14px 15px)"}],"note":"The primary bath's wet room, and the wall behind the tub in each upstairs bath."},{"key":"btl","name":"Bath floor tile","cat":"int","ch":[{"id":"w","name":"White porcelain","css":"repeating-linear-gradient(90deg,#EDEBE6 0 12px,#B9B6AE 12px 13px)"},{"id":"g","name":"Warm gray","css":"repeating-linear-gradient(90deg,#B9B2A6 0 12px,#8C867B 12px 13px)"},{"id":"m","name":"Marble look","css":"linear-gradient(120deg,#ECEAE6 0 40%,#c4c1bb 46%,#ECEAE6 52%)"},{"id":"c","name":"Charcoal slate","css":"repeating-linear-gradient(90deg,#4A4C4F 0 12px,#2C2D2F 12px 13px)"}]},{"key":"hwc","name":"Hardware and faucets","cat":"int","ch":[{"id":"brass","name":"Satin Brass","css":"#B08A4A"},{"id":"black","name":"Matte Black","css":"#101011"},{"id":"nickel","name":"Satin Nickel","css":"#9A9A98"}]}],"defaults":{"sid":"white","trm":"white","fas":"white","win":"black","fdc":"wood","gdc":"white","rof":"char","prf":"metal","lk":"1","g":"f","b":"u","pl":"n","fd":"g","pst":"cedar","clg":"c","cr":"n","fp":"stone","bi":"c","sf":"o","sr":"k","idc":"white","ids":"s","lof":"o","hwc":"brass","wal":"alab","cab":"white","isl":"navy","ctr":"marble","bsp":"slab","vcab":"oak","shw":"slab","btl":"w","flr":"oak","cpt":"oat","uf":"c"},"gallery":[],"looks":[{"cat":"ext","name":"Modern farmhouse (as drawn)","set":{}},{"cat":"ext","name":"Midnight and copper","set":{"sid":"navy","prf":"copper","gdc":"wood","rof":"onyx"}},{"cat":"ext","name":"Sage cottage","set":{"sid":"sage","trm":"cream","fas":"bronze","win":"white","rof":"wood","fdc":"navy","fd":"c"}},{"cat":"ext","name":"Charcoal modern","set":{"sid":"iron","trm":"black","fas":"black","rof":"onyx","gdc":"black","fdc":"black","fd":"s"}},{"cat":"ext","name":"Coastal blue","set":{"sid":"blue","win":"white","rof":"slate","fdc":"navy"}},{"cat":"ext","name":"Warm greige","set":{"sid":"greige","trm":"cream","fas":"bronze","win":"bronze","rof":"brown","gdc":"bronze","fd":"p"}},{"cat":"ext","name":"Black barn","set":{"sid":"black","trm":"black","fas":"black","gdc":"wood","prf":"copper","fd":"p"}},{"cat":"int","name":"Light and warm (as shown)","set":{}},{"cat":"int","name":"Warm oak","set":{"isl":"oak","ctr":"marble","flr":"honey","wal":"greige","clg":"o","cr":"f","ids":"c"}},{"cat":"int","name":"Deep and moody","set":{"cab":"navy","bsp":"grey","flr":"walnut","wal":"grey","idc":"black","clg":"b","cr":"c","vcab":"navy","shw":"slate","lof":"l"}},{"cat":"int","name":"Scandinavian","set":{"isl":"white","flr":"white","wal":"white","hwc":"black","clg":"t","ids":"f","vcab":"white","shw":"subway"}},{"cat":"int","name":"Sage kitchen","set":{"cab":"sage","isl":"oak","bsp":"green","vcab":"sage","shw":"zel","lof":"r"}},{"cat":"int","name":"Black and white","set":{"cab":"black","isl":"white","ctr":"marble","flr":"grey","wal":"white","hwc":"nickel","idc":"black","ids":"c","cr":"c","vcab":"black","shw":"subway"}},{"cat":"int","name":"Everything added","set":{"cr":"c","clg":"o","bi":"s","ids":"c","lof":"l","b":"f"}}],"plan_lead":"Each level seen from straight above, with everything over it taken away. Furniture is illustrative.","plans":[{"id":"main_f","name":"Main level","note":"2,144 sq ft: living, dining and kitchen in the core, the primary suite in its own wing, a three-car garage","svg":"<img src=\"img/plan-main_f.jpg\" alt=\"Main level, seen from above with the levels over it taken away\" style=\"width:100%;height:auto;display:block;border-radius:10px\">"},{"id":"main_s","name":"Main level, side-entry garage","note":"The same rooms; the garage wing is re-proportioned and entered from a motor court at the side","svg":"<img src=\"img/plan-main_s.jpg\" alt=\"Main level, side-entry garage, seen from above with the levels over it taken away\" style=\"width:100%;height:auto;display:block;border-radius:10px\">"},{"id":"upper","name":"Upstairs","note":"1,224 sq ft: three bedrooms, two baths, the loft and a laundry; the office loft sits over the primary closet","svg":"<img src=\"img/plan-upper.jpg\" alt=\"Upstairs, seen from above with the levels over it taken away\" style=\"width:100%;height:auto;display:block;border-radius:10px\">"},{"id":"look","name":"Lookout","note":"224 sq ft: the lookout room on the roof, windows on all four sides","svg":"<img src=\"img/plan-look.jpg\" alt=\"Lookout, seen from above with the levels over it taken away\" style=\"width:100%;height:auto;display:block;border-radius:10px\">"},{"id":"bsmt_u","name":"Lower level","note":"Unfinished, as drawn: a safe room, mechanical space and rough-ins for a bath and a wet bar","svg":"<img src=\"img/plan-bsmt_u.jpg\" alt=\"Lower level, seen from above with the levels over it taken away\" style=\"width:100%;height:auto;display:block;border-radius:10px\">"},{"id":"bsmt_f","name":"Lower level, finished","note":"Lounge, bar, gym, bath and sauna, with the safe room, storage and mechanical space","svg":"<img src=\"img/plan-bsmt_f.jpg\" alt=\"Lower level, finished, seen from above with the levels over it taken away\" style=\"width:100%;height:auto;display:block;border-radius:10px\">"}],"lot":null,"specs":[{"h":"The home","items":["3,760 sq ft finished: 2,144 on the main level, 1,224 upstairs, a 168 sq ft office loft and the 224 sq ft lookout room","Four bedrooms and three and a half baths; the primary suite is on the main level in its own wing","The primary suite: a 20 x 20 bedroom with a door to the covered deck, a spa bath and a walk-in closet, about 800 sq ft in all","Three-car garage in a wing of its own, front entry or side entry","Core 34 x 36 ft, two stories; the garage wing 32 x 24 ft and the primary wing 20 x 46 ft are one story"]},{"h":"Rooms","items":["Main level: foyer, dining room, living room with a fireplace and a 12 ft slider to the covered deck, kitchen with a prep kitchen and pantry, mudroom, powder room, laundry","Upstairs: three bedrooms, two baths, a loft, a second laundry","An office loft over the primary closet, reached by its own spiral stair","The lookout room: 14 x 16 ft on the roof, windows on all four sides"]},{"h":"Heights and roof","items":["10 ft ceilings on the main level","Gable roofs with standing-seam accents over the porch, the lookout and the garage doors","Covered 16 x 14 ft deck off the living room; covered front porch on timber posts"]},{"h":"Inside finish","items":["Living room ceiling: nine coffers centred on the fireplace with a ring chandelier, painted or in oak; timber beams or a tray ceiling instead","Doors: 8 ft on the main level and 6 ft 8 in. upstairs, in three panel styles, every opening cased with a cap over the head","Crown molding as a choice on every level, classic or craftsman","Front door in four designs under a transom: glass over a panel, steel-look glass, craftsman with sidelights, or panelled","Baths: vanity cabinets and shower walls chosen apart from the kitchen","The loft over the primary closet as a home office, a library or a retreat"]},{"h":"Outside","items":["Board-and-batten siding with trim boards at corners and openings","Black-framed windows with grids","A full basement under the core"]}],"foot":["The pictures and the design studio on this page are computer renderings of a 3D model of the plan. Furniture, planting and the land around the house are illustrative; the plan is not drawn on a particular lot.","Finishes offered in the design studio are examples for planning, not a builder's price list. A builder's plan set and contract govern."],"tour":null,"model3d":{"src":"3d/","poster":"img/hero-day.jpg"}};
